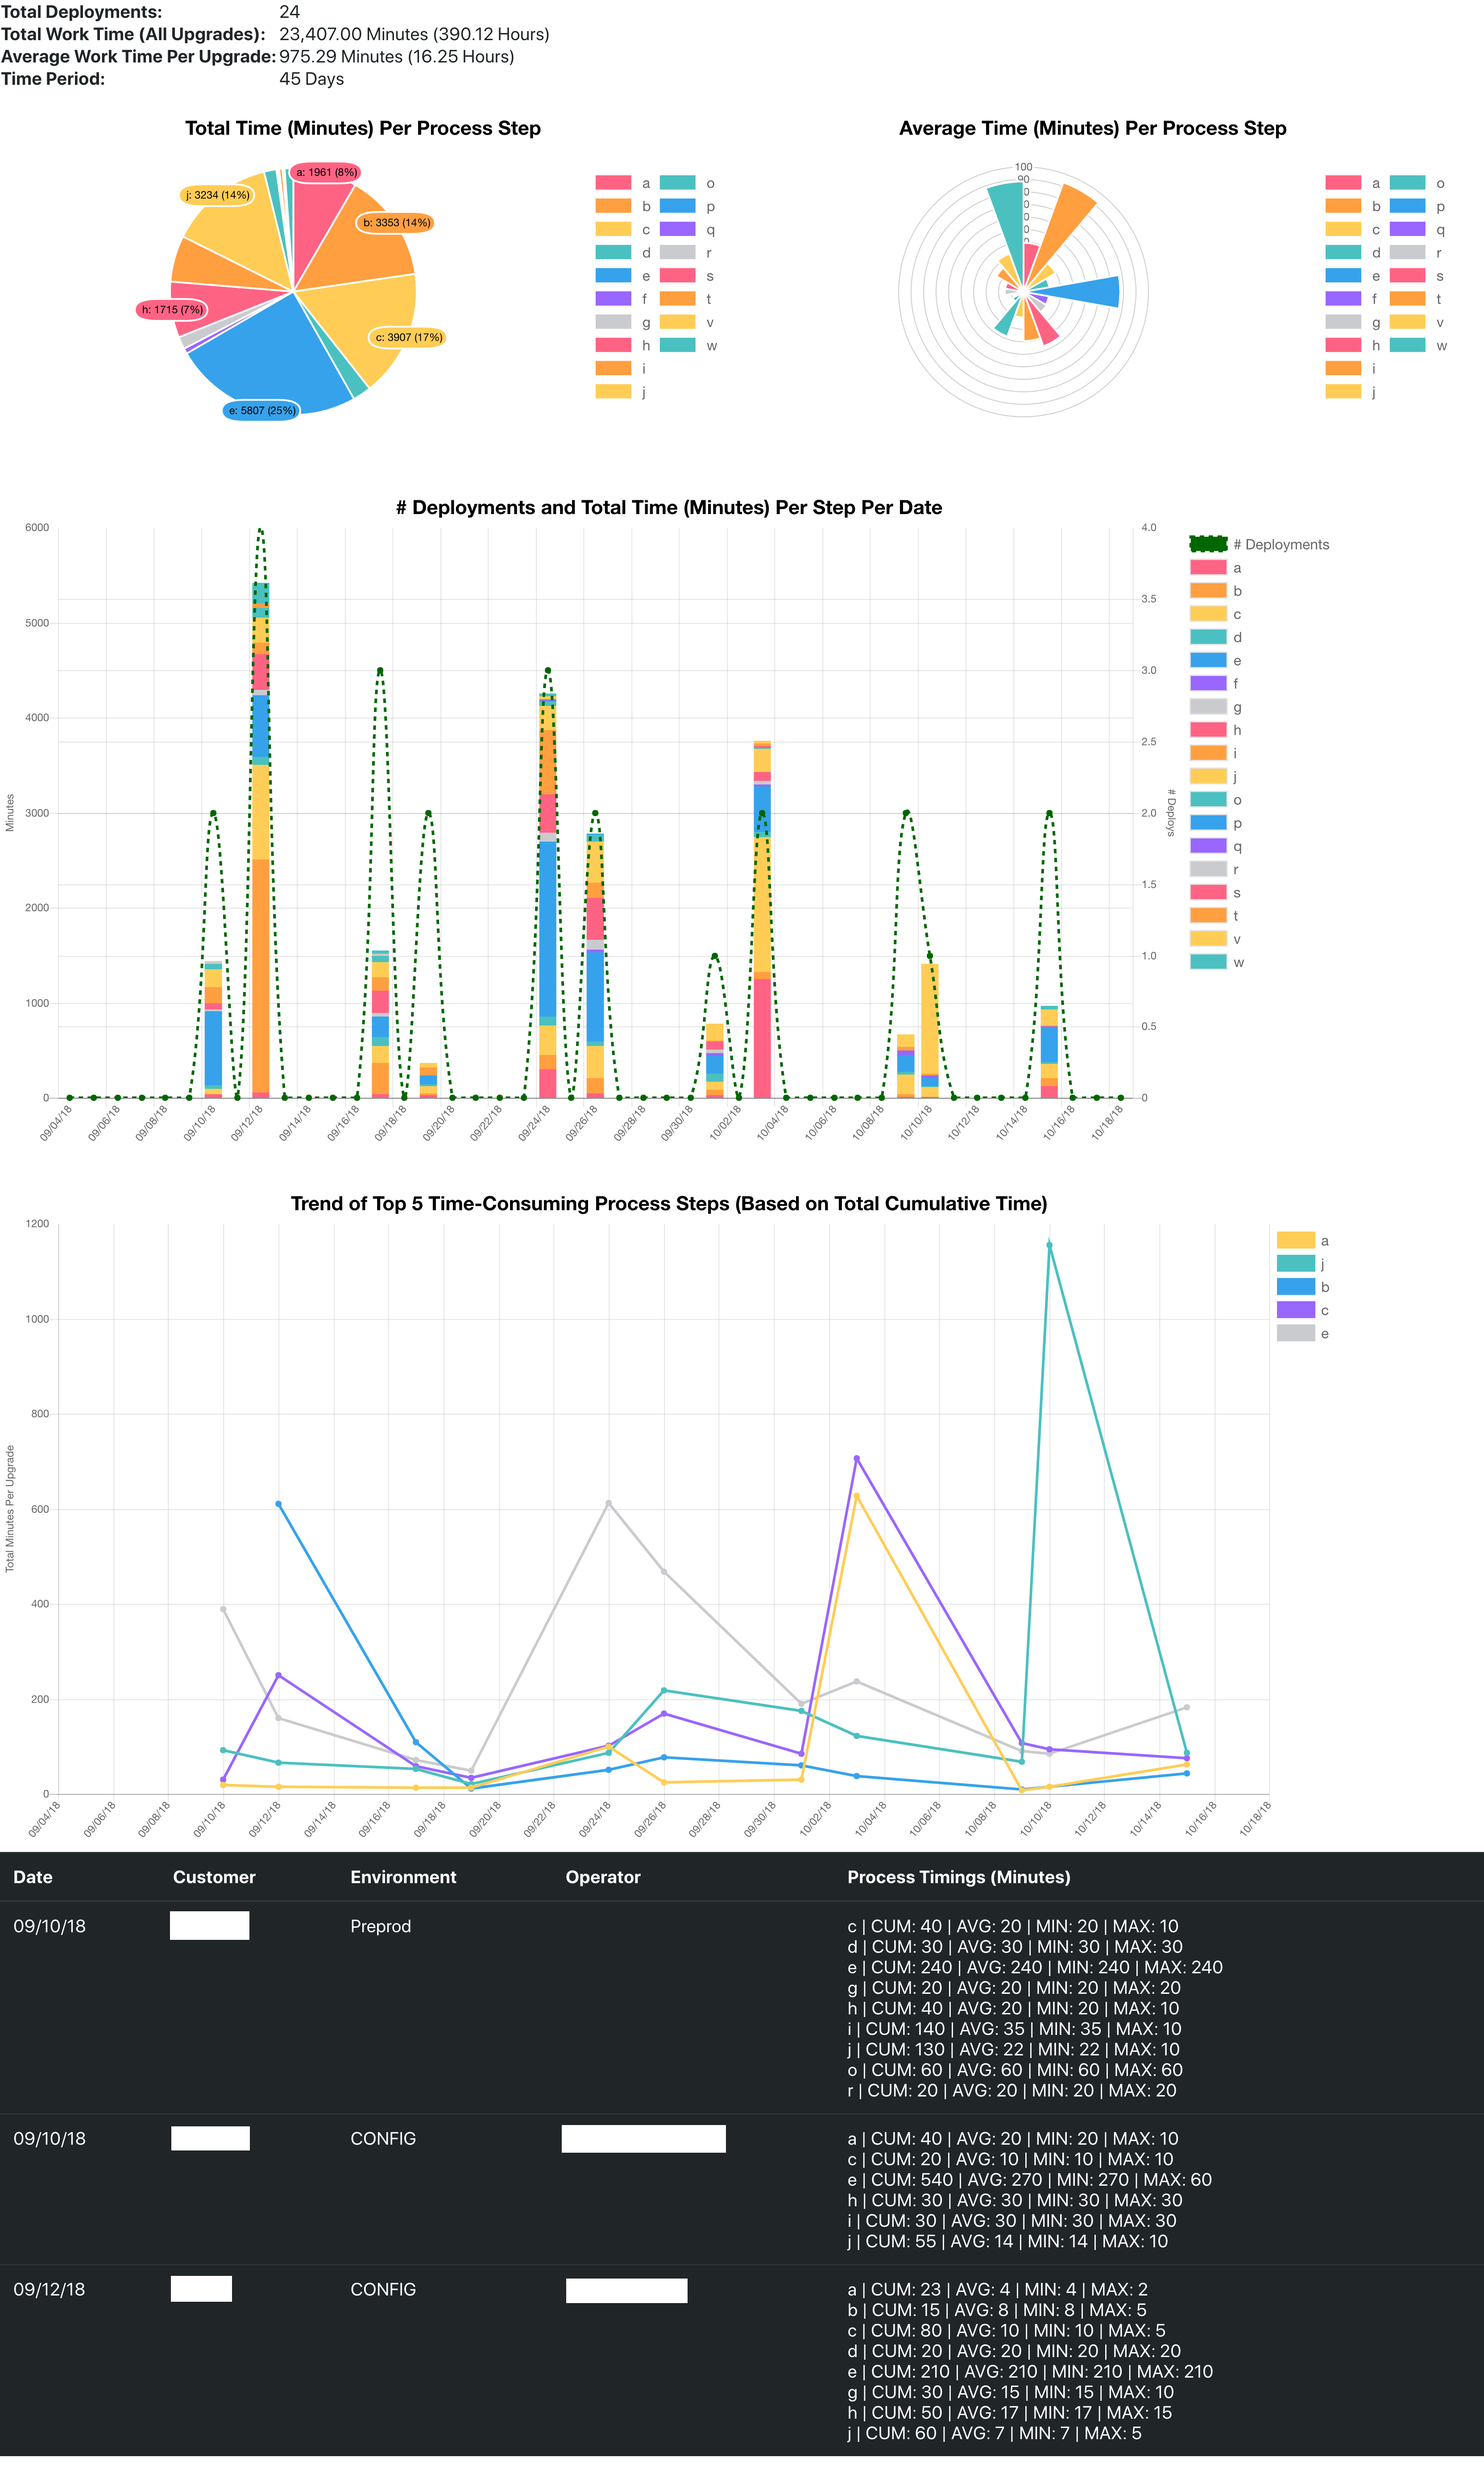
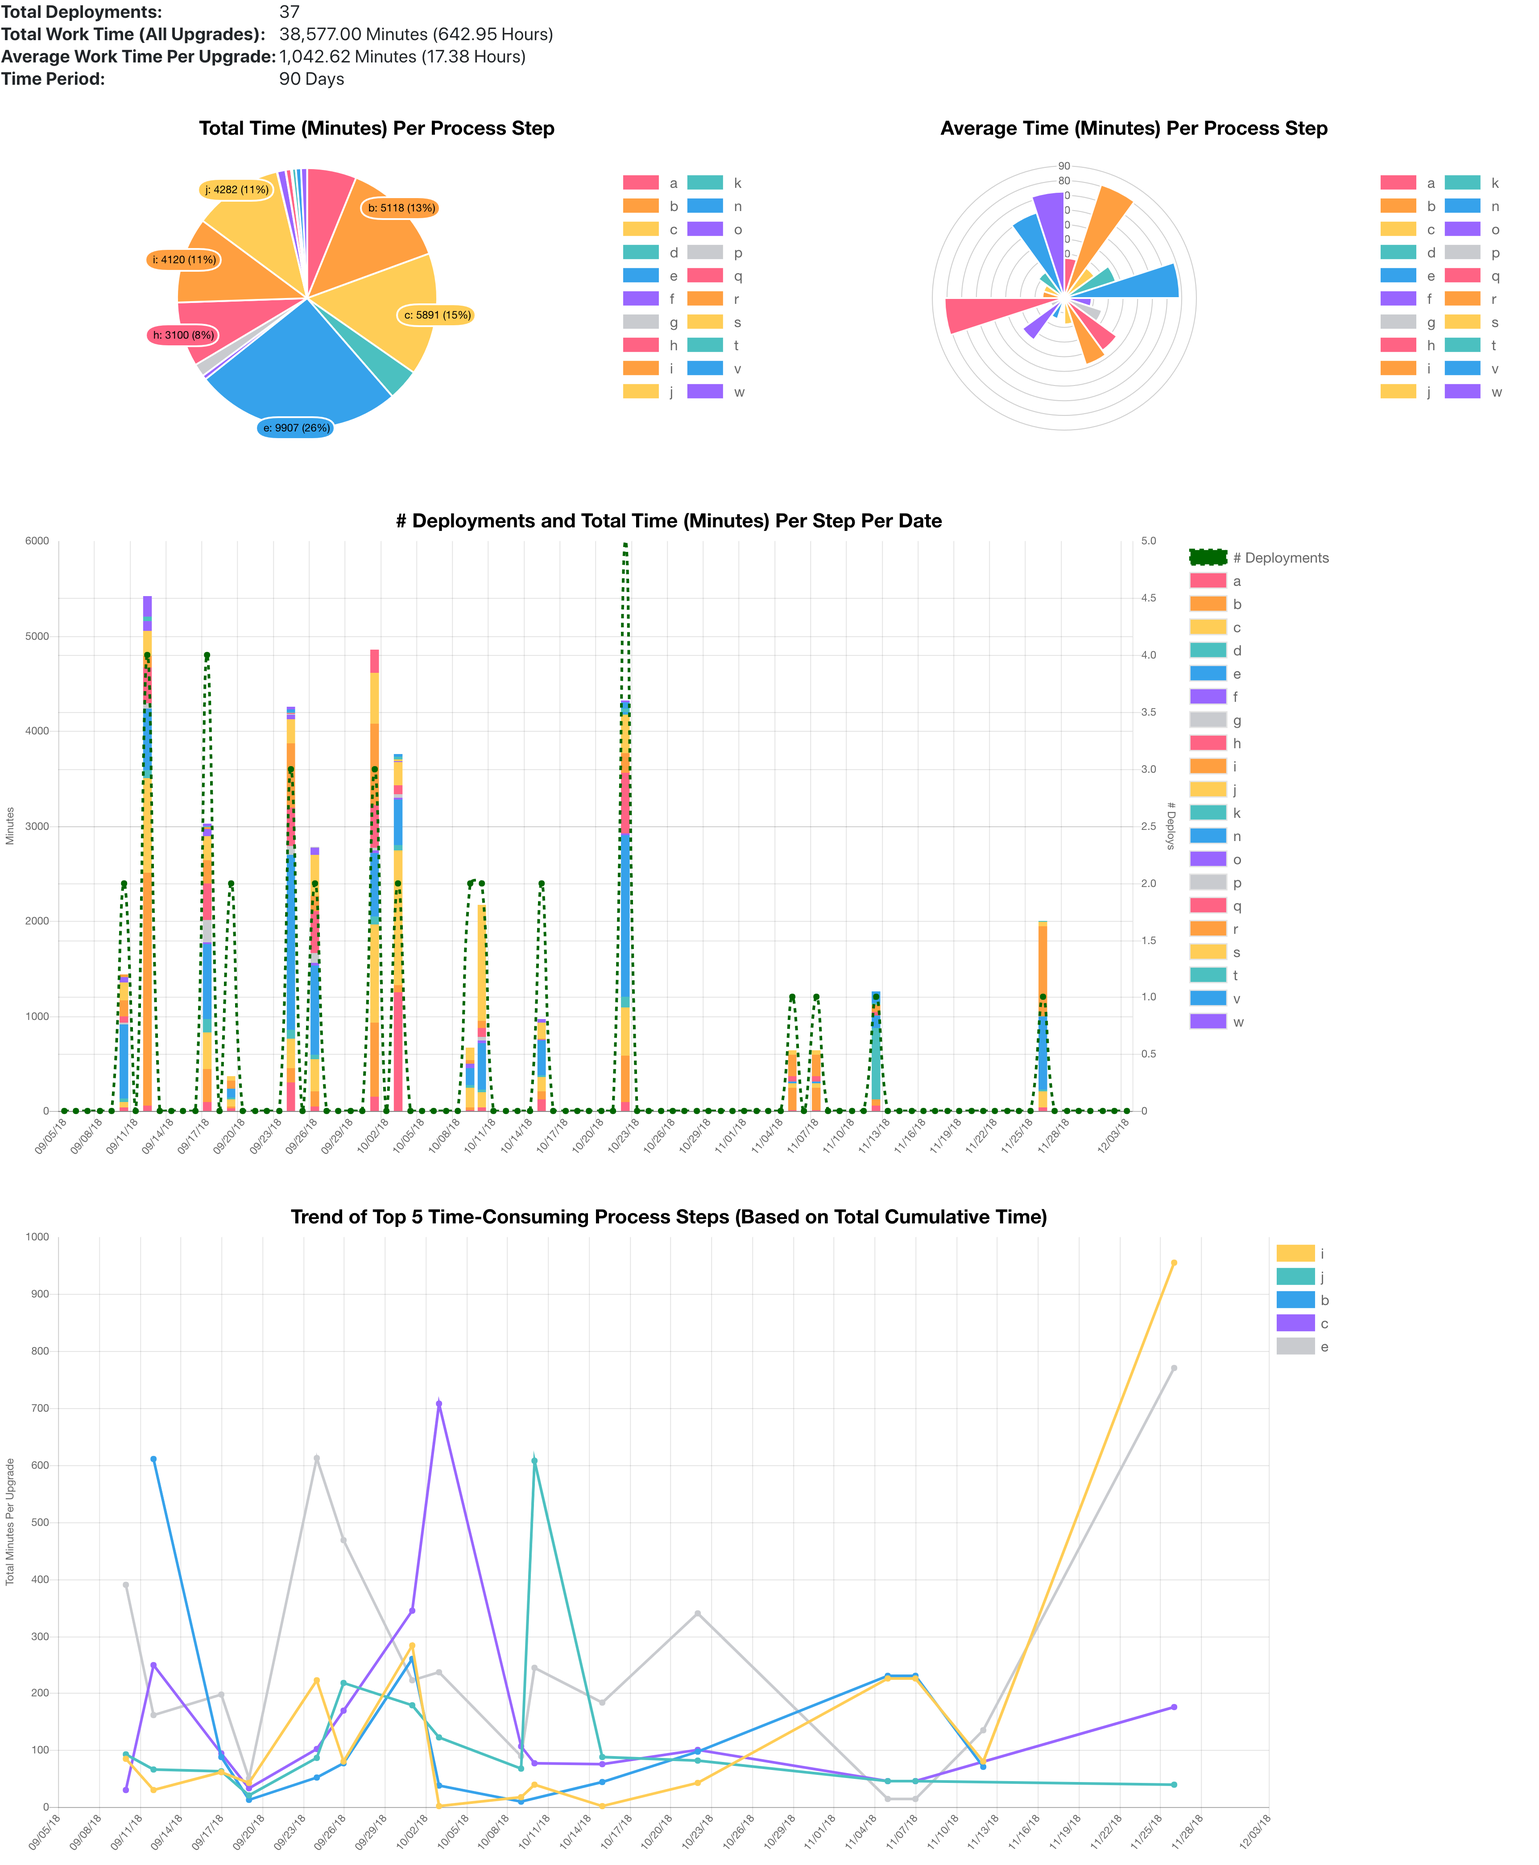
Update Image for More Data
Update the Graphs for more data to be presented.

diff --git a/python--deployment-metric-parser/gather_metrics.py b/python--deployment-metric-parser/gather_metrics.py
@@ -369,6 +369,9 @@ for i in [-5, -4, -3, -2, -1]:
 
     line_chart.append(data)
 
+# TODO: TABLE OF TOP 5 PROCESS STEPS AND ASSOCIATED PER-UPGRADE TIMINGS (AVG.) AND PERCENTAGES
+# THIS CAN BE EXPOSING THE PIE GRAPH OF TOP CONSUMERS IN A SORTED TABULAR FASHION FOR EXPLICIT DATA PRESENTATION
+
 # output HTML with data
 j2_env = Environment(loader=FileSystemLoader("templates"), trim_blocks=True)
 template = j2_env.get_template(input_html_j2)
